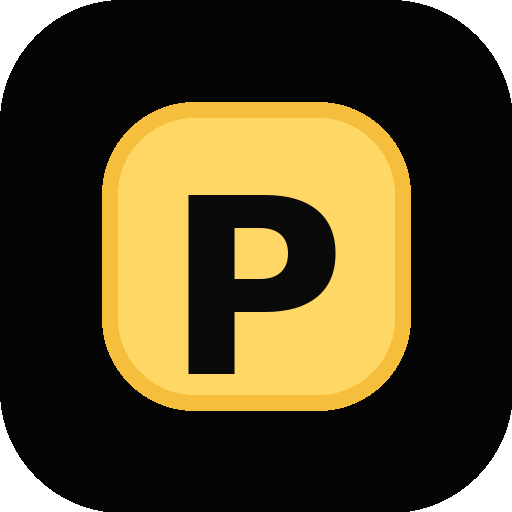
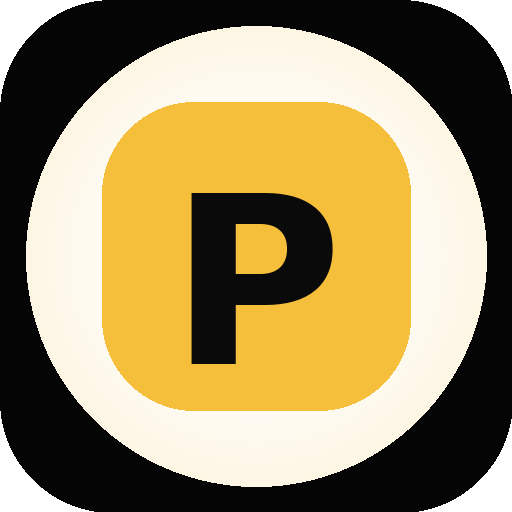
Add files via upload

diff --git a/index.html b/index.html
@@ -9,150 +9,163 @@
 <meta name="apple-mobile-web-app-title" content="Prado Sports">
 <link rel="manifest" href="manifest.json">
 <link rel="apple-touch-icon" href="icon-192.png">
-<title>Prado Sports V18</title>
+<title>Prado Sports V20</title>
 <style>
 @import url('https://fonts.googleapis.com/css2?family=Inter:wght@600;700;800;900&display=swap');
-:root{--bg:#000;--gold:#f4bd3b;--gold2:#ffd56a;--card:#151922;--card2:#202633;--line:rgba(255,255,255,.08);--muted:#aeb3bd;--red:#ff3558;--green:#49e583}
+:root{--bg:#000;--card:#12161d;--card2:#1b202b;--gold:#f4bd3b;--gold2:#ffd86f;--muted:#9ca3af;--line:rgba(255,255,255,.09);--red:#ff3158;--green:#52e78a}
 *{box-sizing:border-box;-webkit-tap-highlight-color:transparent}
 html,body{margin:0;background:#000;color:#fff;font-family:Inter,Arial,sans-serif;overflow-x:hidden}
-.app{max-width:520px;margin:0 auto;background:#000;min-height:100dvh}
 button,input{font-family:inherit}
-.page{display:none;animation:fade .22s ease}.page.active{display:block}@keyframes fade{from{opacity:.4;transform:translateY(4px)}to{opacity:1;transform:none}}
-
-/* Splash */
-.splash{position:fixed;inset:0;z-index:99999;background:radial-gradient(circle at 50% 35%,rgba(244,189,59,.22),transparent 28%),#000;display:flex;align-items:center;justify-content:center;animation:splashOut .45s ease forwards;animation-delay:1.9s}
-.splashBox{text-align:center}.sLogo{width:116px;height:116px;border-radius:32px;margin:auto;display:grid;place-items:center;background:linear-gradient(145deg,#ffe37c,#d69212);color:#111;font-size:68px;font-weight:950;box-shadow:0 0 55px rgba(244,189,59,.35)}
-.splash h1{font-size:38px;line-height:.95;letter-spacing:-1.4px;margin:26px 0 12px;font-weight:950}.splash h1 span{color:var(--gold)}
-.splash p{font-size:14px;color:#ddd;font-weight:800}.load{width:130px;height:5px;border-radius:99px;background:#202020;margin:30px auto;overflow:hidden}.load:after{content:"";display:block;width:60%;height:100%;background:linear-gradient(90deg,#ff3358,#ffd15a,#42e580);animation:load 1.1s infinite}
-@keyframes load{from{transform:translateX(-110%)}to{transform:translateX(200%)}}@keyframes splashOut{to{opacity:0;visibility:hidden;pointer-events:none}}
-
-/* Setup */
-.setup{min-height:100dvh;background:#000;padding:calc(18px + env(safe-area-inset-top)) 22px calc(116px + env(safe-area-inset-bottom))}
-.setup h1{font-size:32px;line-height:1.04;margin:0 0 8px;font-weight:950;letter-spacing:-1.1px}
-.setup h1 span{color:var(--gold)}.setup p{margin:0 0 20px;color:#b8bbc3;font-weight:800;font-size:16px;line-height:1.35}
-.setup .search{height:50px;border-radius:13px;background:#141414;border:1px solid rgba(255,255,255,.10);display:flex;align-items:center;gap:10px;padding:0 14px;color:#aaa;font-size:15px;font-weight:800;margin-bottom:24px}
-.label{font-weight:950;margin:0 0 10px;font-size:15px;color:#fff}
-.pickList{border-radius:16px;overflow:hidden;background:rgba(255,255,255,.045);border:1px solid rgba(255,255,255,.08)}
-.pick{height:58px;display:grid;grid-template-columns:48px 1fr 34px;align-items:center;gap:10px;padding:0 12px;border-bottom:1px solid rgba(255,255,255,.07)}
-.pick:last-child{border-bottom:0}.pick img{width:34px;height:34px;object-fit:contain}.pick b{font-size:16px;font-weight:850}.check{width:26px;height:26px;border-radius:50%;border:3px solid #303030;display:grid;place-items:center;color:#111;font-weight:950}.pick.selected .check{background:var(--gold);border-color:var(--gold)}
-.setupActions{position:fixed;bottom:0;left:0;right:0;z-index:50;background:#000;padding:14px 22px calc(18px + env(safe-area-inset-bottom));display:grid;gap:10px}.setupActions button{height:52px;border:0;border-radius:14px;font-size:17px;font-weight:950}.primary{background:linear-gradient(90deg,#ffd96c,#e2a51b);color:#111}.skip{background:transparent;color:var(--gold)}
-
-/* App */
-.screen{padding:0 16px calc(90px + env(safe-area-inset-bottom))}
-.top{position:sticky;top:0;z-index:40;background:#000;padding:calc(8px + env(safe-area-inset-top)) 0 10px;border-bottom:1px solid rgba(255,255,255,.06)}
-.brandRow{display:flex;align-items:center;justify-content:space-between}.brand{font-size:18px;font-weight:950;letter-spacing:-.35px}.brand span{color:var(--gold)}
-.searchBtn{border:0;background:transparent;color:var(--gold);font-size:25px}
-.searchPanel{display:none;margin-top:10px;background:#101010;border:1px solid rgba(255,255,255,.09);border-radius:14px;padding:10px}.searchPanel.active{display:block}
-.searchPanel input{width:100%;height:42px;border:0;border-radius:10px;background:#1c1c1c;color:#fff;padding:0 12px;font-weight:800}
-.searchResults{margin-top:8px;display:grid;gap:7px}.result{padding:9px 10px;background:#171717;border-radius:10px;font-size:13px;font-weight:800;color:#ddd}
-
-.dates{display:grid;grid-template-columns:repeat(7,1fr);gap:0;margin:12px -16px 10px;padding:0 12px;border-bottom:1px solid rgba(255,255,255,.08);background:#000;overflow:hidden}
-.date{height:56px;text-align:center;color:#8b8f96;font-weight:900;font-size:12px;position:relative;padding-top:8px}.date b{display:block;font-size:16px;margin-top:4px}.date.active{color:var(--gold)}.date.active:after{content:"";position:absolute;left:20%;right:20%;bottom:0;height:4px;border-radius:4px;background:var(--gold)}
-
-.heroMini{border-radius:21px;padding:15px;margin:12px 0;background:linear-gradient(120deg,rgba(0,0,0,.82),rgba(0,0,0,.32)),url('https://images.unsplash.com/photo-1459865264687-595d652de67e?auto=format&fit=crop&w=1200&q=78') center/cover;border:1px solid rgba(244,189,59,.12)}
-.heroMini h2{font-size:22px;line-height:1.08;margin:0 0 7px;font-weight:950;letter-spacing:-.6px}.heroMini h2 span{color:var(--gold)}.heroMini p{margin:0;color:#eee;font-size:12px;font-weight:750;line-height:1.35}.heroBtns{display:grid;grid-template-columns:1fr 1fr;gap:8px;margin-top:12px}.heroBtns button{height:41px;border-radius:13px;border:0;font-weight:950}.heroBtns .live{background:var(--gold);color:#111}.heroBtns .ia{background:rgba(255,255,255,.09);color:#fff;border:1px solid rgba(255,255,255,.13)}
-
-.title{display:flex;align-items:center;justify-content:space-between;margin:17px 0 9px}.title h2{margin:0;font-size:22px;letter-spacing:-.6px}.title small{color:var(--gold);font-weight:950}
-.match{background:linear-gradient(145deg,#151922,#202633);border:1px solid var(--line);border-radius:20px;padding:13px;margin-bottom:10px}
-.mt{display:flex;justify-content:space-between;font-size:12px;font-weight:900;color:#b5b8c0}.liveText{color:var(--green)}
-.teams{display:grid;grid-template-columns:1fr auto 1fr;align-items:center;text-align:center;gap:7px;margin:12px 0}.crest{width:46px;height:46px;object-fit:contain;background:transparent!important;border:0!important;box-shadow:none!important;filter:none!important}.name{font-size:13px;font-weight:950;margin-top:5px}.score{font-size:27px;font-weight:950}
-.metrics{display:grid;grid-template-columns:repeat(3,1fr);gap:7px}.metric{background:#070707;border-radius:13px;padding:8px 4px;text-align:center}.metric small{display:block;color:#aeb3bd;font-size:9px;font-weight:800}.metric b{color:var(--gold);font-size:16px}
-.aiBar{height:10px;border-radius:99px;background:#070707;overflow:hidden;margin:10px 0}.aiBar div{height:100%;background:linear-gradient(90deg,#ff385c,#ffe061,#45df7d)}
-.aiLine{display:flex;justify-content:space-between;border-top:1px solid rgba(255,255,255,.08);padding:10px 0 0;font-weight:850}.aiLine b{color:var(--gold)}
-
-.moreGrid,.compGrid{display:grid;grid-template-columns:1fr 1fr;gap:10px}.tile{background:linear-gradient(145deg,#151922,#202633);border:1px solid var(--line);border-radius:19px;padding:15px;min-height:104px}.tile span{font-size:25px}.tile b{display:block;margin-top:12px;font-size:17px}.tile small{color:#b6bac2;font-weight:800}
-
-.newsItem{background:linear-gradient(145deg,#151922,#202633);border:1px solid var(--line);border-radius:16px;padding:13px;margin-bottom:9px}.newsItem b{font-size:14px}.newsItem small{display:block;margin-top:5px;color:#aaa;font-weight:750}
-
-.bottom{position:fixed;bottom:0;left:0;right:0;z-index:44;background:linear-gradient(180deg,rgba(0,0,0,.72),#050505 35%);border-top:1px solid rgba(255,255,255,.08);padding:8px 10px calc(8px + env(safe-area-inset-bottom))}
-.nav{max-width:520px;margin:auto;display:grid;grid-template-columns:repeat(5,1fr);gap:6px}.nav button{border:0;background:transparent;color:#9b9b9b;border-radius:17px;padding:8px 2px;font-weight:900;font-size:10px}.nav span{display:block;font-size:21px;margin-bottom:3px}.nav .active{background:rgba(255,255,255,.12);color:var(--gold)}
+.app{max-width:520px;margin:0 auto;min-height:100dvh;background:#000}
+.page{display:none;animation:fade .2s ease}.page.active{display:block}@keyframes fade{from{opacity:.45;transform:translateY(4px)}to{opacity:1;transform:none}}
+.screen{padding:0 14px calc(92px + env(safe-area-inset-bottom))}
+.splash{position:fixed;inset:0;z-index:9999;display:flex;align-items:center;justify-content:center;background:radial-gradient(circle at 50% 34%,rgba(244,189,59,.24),transparent 28%),#000;animation:hide .5s ease forwards;animation-delay:1.8s}
+.splashBox{text-align:center}.sLogo{width:112px;height:112px;border-radius:30px;display:grid;place-items:center;background:linear-gradient(145deg,#ffe27a,#d89512);color:#111;font-size:66px;font-weight:950;margin:0 auto 24px;box-shadow:0 0 54px rgba(244,189,59,.42)}
+.splash h1{font-size:39px;line-height:.92;margin:0;font-weight:950;letter-spacing:-1.5px}.splash h1 span{color:var(--gold)}.splash p{font-size:15px;color:#eee;font-weight:800}.load{width:130px;height:5px;background:#222;border-radius:999px;margin:28px auto 0;overflow:hidden}.load:after{content:"";display:block;width:60%;height:100%;background:linear-gradient(90deg,var(--red),var(--gold),var(--green));animation:l 1.1s infinite}@keyframes l{from{transform:translateX(-120%)}to{transform:translateX(210%)}}@keyframes hide{to{opacity:0;visibility:hidden;pointer-events:none}}
+.header{position:sticky;top:0;z-index:50;padding:calc(8px + env(safe-area-inset-top)) 14px 11px;margin:0 -14px;background:#000;border-bottom:1px solid rgba(255,255,255,.06)}
+.topRow{display:flex;align-items:center;justify-content:space-between}.brand{font-weight:950;font-size:18px;letter-spacing:-.4px}.brand b{color:var(--gold)}.searchIcon{width:38px;height:38px;border:0;border-radius:15px;background:#101318;color:var(--gold);font-size:20px}
+.searchBar{height:42px;border-radius:15px;background:#101318;border:1px solid var(--line);margin-top:10px;display:flex;align-items:center;gap:8px;padding:0 12px;color:#b8bec8;font-size:13px;font-weight:800}
+.dates{display:grid;grid-template-columns:repeat(7,1fr);gap:4px;margin:13px -2px 10px}.date{border:0;background:transparent;color:#9ca3af;border-radius:12px;padding:6px 0 8px;text-align:center;font-weight:900}.date small{display:block;font-size:10px}.date b{display:block;font-size:13px;margin-top:3px}.date.active{color:#fff;background:#11161d}.date.active b,.date.active small{color:var(--gold)}.date.active:after{content:"";display:block;height:3px;width:22px;background:var(--gold);border-radius:999px;margin:6px auto 0}
+.section{display:flex;align-items:center;justify-content:space-between;margin:17px 0 9px}.section h2{margin:0;font-size:20px;letter-spacing:-.7px}.section small{color:var(--gold);font-weight:950}
+.match{background:linear-gradient(145deg,#151a23,#202633);border:1px solid var(--line);border-radius:20px;padding:12px;margin-bottom:10px}.mTop{display:flex;justify-content:space-between;color:#aeb3bd;font-size:11px;font-weight:900}.live{color:var(--green)}.teams{display:grid;grid-template-columns:1fr auto 1fr;align-items:center;text-align:center;gap:8px;margin:12px 0}.crest{width:46px;height:46px;object-fit:contain;background:transparent!important;border:0!important;box-shadow:none!important;filter:drop-shadow(0 3px 5px rgba(0,0,0,.25))}.team{font-size:13px;font-weight:950;margin-top:3px}.score{font-size:25px;font-weight:950}.metrics{display:grid;grid-template-columns:repeat(3,1fr);gap:7px}.metric{background:#060606;border-radius:13px;padding:8px 4px;text-align:center}.metric small{display:block;color:#aeb3bd;font-size:9px;font-weight:800}.metric b{display:block;color:var(--gold);font-size:16px;margin-top:2px}
+.listGame{display:flex;align-items:center;gap:10px;padding:11px 0;border-bottom:1px solid rgba(255,255,255,.07)}.listGame .crest{width:30px;height:30px}.listGame b{font-size:14px}.listGame small{color:var(--muted);font-weight:800}
+.ai{background:linear-gradient(145deg,#151a23,#202633);border:1px solid var(--line);border-radius:20px;padding:13px;margin-bottom:10px}.bar{height:9px;background:#070707;border-radius:999px;overflow:hidden;margin:11px 0}.bar span{display:block;height:100%;background:linear-gradient(90deg,#ff3158,#ffe066,#52e78a)}.aiLine{display:flex;justify-content:space-between;border-top:1px solid rgba(255,255,255,.07);padding-top:9px;margin-top:9px;font-weight:900}.aiLine b{color:var(--gold)}
+.grid{display:grid;grid-template-columns:1fr 1fr;gap:10px}.box{background:linear-gradient(145deg,#151a23,#202633);border:1px solid var(--line);border-radius:18px;padding:14px;min-height:92px}.box span{font-size:23px}.box b{display:block;margin-top:10px}.box small{color:var(--muted);font-weight:800}
+.more{min-height:110px}.settings{background:linear-gradient(145deg,#151a23,#202633);border:1px solid var(--line);border-radius:20px;padding:14px;margin-bottom:12px}.line{display:flex;justify-content:space-between;align-items:center;border-top:1px solid rgba(255,255,255,.07);padding:11px 0;font-weight:900}.line:first-of-type{border-top:0}.toggle{width:44px;height:25px;border-radius:999px;background:linear-gradient(90deg,var(--gold2),var(--gold));position:relative}.toggle:after{content:"";position:absolute;width:19px;height:19px;background:#111;border-radius:50%;right:3px;top:3px}.req{width:100%;height:45px;border:0;border-radius:15px;background:linear-gradient(90deg,var(--gold2),var(--gold));font-weight:950;color:#111}
+.setup{min-height:100dvh;background:#000;padding:calc(22px + env(safe-area-inset-top)) 22px calc(96px + env(safe-area-inset-bottom))}.setup h1{font-size:30px;margin:0 0 8px;letter-spacing:-.9px}.setup h1 span{color:var(--gold)}.setup p{margin:0 0 18px;color:#b9bec8;font-weight:800;line-height:1.35}.setupSearch{height:50px;border-radius:15px;border:1px solid rgba(255,255,255,.12);background:#151515;display:flex;align-items:center;gap:10px;padding:0 13px;color:#b7b7b7;font-weight:800;margin-bottom:19px}.setupLabel{font-size:15px;font-weight:950;margin:0 0 10px}.pickBox{background:linear-gradient(145deg,#101412,#171a18);border:1px solid rgba(255,255,255,.09);border-radius:18px;overflow:hidden}.pick{height:56px;display:grid;grid-template-columns:42px 1fr 30px;align-items:center;gap:10px;padding:0 13px;border-bottom:1px solid rgba(255,255,255,.07)}.pick:last-child{border-bottom:0}.pick img{width:32px;height:32px;object-fit:contain;background:transparent!important;border:0!important}.pick b{font-size:16px}.check{width:24px;height:24px;border-radius:50%;border:2px solid #333;display:grid;place-items:center;color:#111;font-weight:950}.pick.selected .check{background:var(--gold);border-color:var(--gold)}.setupActions{position:fixed;left:0;right:0;bottom:0;padding:14px 22px calc(16px + env(safe-area-inset-bottom));background:linear-gradient(180deg,rgba(0,0,0,.1),#000 18%);z-index:80}.setupActions button{width:100%;height:50px;border:0;border-radius:14px;font-size:16px;font-weight:950}.primary{background:linear-gradient(90deg,var(--gold2),var(--gold));color:#111}.skip{margin-top:10px;background:transparent!important;color:var(--gold)!important}
+.bottom{position:fixed;left:0;right:0;bottom:0;z-index:60;background:linear-gradient(180deg,rgba(0,0,0,.75),#030303 35%);border-top:1px solid rgba(255,255,255,.08);padding:8px 8px calc(8px + env(safe-area-inset-bottom))}.nav{max-width:520px;margin:0 auto;display:grid;grid-template-columns:repeat(5,1fr);gap:5px}.nav button{border:0;background:transparent;color:#9d9d9d;border-radius:17px;padding:8px 2px;font-size:10px;font-weight:950}.nav span{display:block;font-size:22px;margin-bottom:2px}.nav .on{background:rgba(255,255,255,.11);color:var(--gold)}
 </style>
 </head>
 <body>
 <div class="splash"><div class="splashBox"><div class="sLogo">P</div><h1>PRADO<br><span>SPORTS</span></h1><p>Futebol inteligente em tempo real.</p><div class="load"></div></div></div>
 
 <div id="setup" class="setup">
-  <h1 id="setTitle">Times <span>favoritos</span></h1>
-  <p id="setSub">Escolha seus times para personalizar sua experiência</p>
-  <div class="search">⌕ <span id="setSearch">Buscar time</span></div>
-  <div class="label">Populares</div>
-  <div id="pickList" class="pickList"></div>
-  <div class="setupActions"><button class="primary" onclick="nextSetup()">Próximo</button><button class="skip" onclick="enterApp()">Pular</button></div>
+  <h1 id="stitle">Times <span>favoritos</span></h1>
+  <p id="ssub">Escolha seus times para personalizar sua experiência</p>
+  <div class="setupSearch">🔍 <span id="splaceholder">Buscar time</span></div>
+  <div class="setupLabel" id="slabel">Populares</div>
+  <div class="pickBox" id="pickList"></div>
+  <div class="setupActions"><button class="primary" onclick="nextSetup()" id="nextBtn">Próximo</button><button class="skip" onclick="enterApp()">Pular</button></div>
 </div>
 
 <div id="app" class="app" style="display:none">
-  <div class="screen">
-    <div class="top">
-      <div class="brandRow"><div class="brand">PRADO <span>SPORTS</span></div><button class="searchBtn" onclick="toggleSearch()">⌕</button></div>
-      <div id="searchPanel" class="searchPanel"><input id="q" placeholder="Buscar times, ligas e jogos..." oninput="doSearch()"><div id="searchResults" class="searchResults"></div></div>
-    </div>
-
-    <section id="home" class="page active">
-      <div class="dates" id="dates"></div>
-      <div class="heroMini"><h2>Prado Sports <span>placares e IA</span></h2><p>Ao vivo, escalações, competições e Escanteios IA.</p><div class="heroBtns"><button class="live" onclick="go('live')">🔴 Ao vivo</button><button class="ia" onclick="go('ai')">🚩 Escanteios IA</button></div></div>
-      <div class="title"><h2>⚽ Jogos de hoje</h2><small>Principal</small></div>
-      <div id="todayGames"></div>
-      <div class="title"><h2>⭐ Favoritos</h2><small>Seu app</small></div>
-      <div class="newsItem"><b>Vasco x Flamengo</b><small>Hoje • 21:30 • Brasileirão Série A</small></div>
-      <div class="title"><h2>🚩 Escanteios IA</h2><small>Top</small></div>
-      <div id="homeAI"></div>
-    </section>
-
-    <section id="live" class="page"><div class="title"><h2>🔴 Ao Vivo</h2><small>Tempo real</small></div><div id="liveList"></div></section>
-    <section id="fav" class="page"><div class="title"><h2>⭐ Favoritos</h2><small>Personalizado</small></div><div class="newsItem"><b>Vasco x Flamengo</b><small>Hoje • 21:30</small></div><div class="newsItem"><b>Brasil x Argentina</b><small>Próximo favorito</small></div></section>
-    <section id="comp" class="page"><div class="title"><h2>🏆 Competições</h2><small>Mundo</small></div><div id="compGrid" class="compGrid"></div></section>
-    <section id="ai" class="page"><div class="title"><h2>🚩 Escanteios IA</h2><small>Top do dia</small></div><div id="aiList"></div></section>
-    <section id="more" class="page"><div class="title"><h2>☰ Mais</h2><small>Organizado</small></div><div class="moreGrid"><div class="tile" onclick="go('ai')"><span>🚩</span><b>Escanteios IA</b><small>Top jogos</small></div><div class="tile"><span>🏆</span><b>Tabelas</b><small>Classificações</small></div><div class="tile"><span>🎯</span><b>Artilheiros</b><small>Gols</small></div><div class="tile"><span>⚙️</span><b>Configurações</b><small>Alertas</small></div></div></section>
-  </div>
-
-  <div class="bottom"><div class="nav"><button class="active" onclick="go('home',this)"><span>🏠</span>Início</button><button onclick="go('live',this)"><span>🔴</span>Ao vivo</button><button onclick="go('fav',this)"><span>⭐</span>Favoritos</button><button onclick="go('comp',this)"><span>🏆</span>Competições</button><button onclick="go('more',this)"><span>☰</span>Mais</button></div></div>
+<div class="screen">
+<header class="header"><div class="topRow"><div class="brand">PRADO <b>SPORTS</b></div><button class="searchIcon" onclick="openSearch()">⌕</button></div><div class="searchBar" id="searchBar">🔍 Buscar jogos, times e ligas</div></header>
+<section id="home" class="page active">
+  <div class="dates" id="dates"></div>
+  <div class="section"><h2>⚽ Jogos de hoje</h2><small>Principal</small></div>
+  <div id="todayList"></div>
+  <div class="section"><h2>🚩 Escanteios IA</h2><small>Top do dia</small></div>
+  <div id="aiList"></div>
+  <div class="section"><h2>⭐ Favoritos</h2><small>Personalizado</small></div>
+  <div class="listGame"><img class="crest" src="https://media.api-sports.io/football/teams/133.png"><div><b>Vasco x Flamengo</b><br><small>Hoje • 21:30</small></div></div>
+</section>
+<section id="live" class="page"><div class="section"><h2>🔴 Ao vivo</h2><small>Tempo real</small></div><div id="liveList"></div></section>
+<section id="fav" class="page"><div class="section"><h2>⭐ Favoritos</h2><small>Seu app</small></div><div class="listGame"><img class="crest" src="https://media.api-sports.io/football/teams/133.png"><div><b>Vasco</b><br><small>Próximo jogo hoje</small></div></div><div class="listGame"><img class="crest" src="https://media.api-sports.io/football/teams/127.png"><div><b>Flamengo</b><br><small>Ao vivo no Brasileirão</small></div></div></section>
+<section id="comp" class="page"><div class="section"><h2>🏆 Competições</h2><small>Mundo</small></div><div class="grid" id="compGrid"></div></section>
+<section id="more" class="page"><div class="section"><h2>☰ Mais</h2><small>Organizado</small></div><div class="grid"><div class="box more" onclick="show('home')"><span>🚩</span><b>Escanteios IA</b><small>Top jogos</small></div><div class="box more"><span>🏆</span><b>Tabelas</b><small>Classificações</small></div><div class="box more"><span>🎯</span><b>Artilheiros</b><small>Gols</small></div><div class="box more" onclick="show('settings')"><span>⚙️</span><b>Configurações</b><small>Alertas</small></div></div></section>
+<section id="settings" class="page"><div class="section"><h2>⚙️ Configurações</h2><small>Alertas</small></div><div class="settings"><button class="req" onclick="notify()">Permitir notificações</button><p id="nstatus" style="color:var(--muted);font-weight:800">Status: aguardando</p></div><div class="settings"><div class="line">⚽ Gol <div class="toggle"></div></div><div class="line">🚩 Escanteio <div class="toggle"></div></div><div class="line">🟨 Cartão <div class="toggle"></div></div><div class="line">📋 Escalação <div class="toggle"></div></div></div></section>
+</div>
+<nav class="bottom"><div class="nav"><button class="on" onclick="nav('home',this)"><span>🏠</span>Hoje</button><button onclick="nav('live',this)"><span>🔴</span>Ao vivo</button><button onclick="nav('fav',this)"><span>⭐</span>Favoritos</button><button onclick="nav('comp',this)"><span>🏆</span>Ligas</button><button onclick="nav('more',this)"><span>☰</span>Mais</button></div></nav>
 </div>
 
 <script>
-const logos={
- vasco:'https://media.api-sports.io/football/teams/133.png', fla:'https://media.api-sports.io/football/teams/127.png',
- cor:'https://media.api-sports.io/football/teams/131.png', pal:'https://media.api-sports.io/football/teams/121.png',
- san:'https://media.api-sports.io/football/teams/128.png', sp:'https://media.api-sports.io/football/teams/126.png',
- inter:'https://media.api-sports.io/football/teams/119.png', flu:'https://media.api-sports.io/football/teams/124.png',
- boca:'https://media.api-sports.io/football/teams/451.png'
-};
-const teams=[['Vasco',logos.vasco],['Flamengo',logos.fla],['Corinthians',logos.cor],['Palmeiras',logos.pal],['Santos',logos.san],['São Paulo',logos.sp],['Internacional',logos.inter]];
-const comps=[['Copa do Mundo','🌎'],['Libertadores','🏆'],['Sul-Americana','🏆'],['Brasileirão Série A','🏆'],['Premier League','🏴'],['La Liga','🇪🇸'],['Champions League','⭐'],['Serie A','🇮🇹']];
-const matches=[
- {l:'Brasileirão Série A',h:['Vasco',logos.vasco],a:['Flamengo',logos.fla],s:'2 - 1',t:'2º Tempo • 67:15',c:8,p:84},
- {l:'Brasileirão Série A',h:['Palmeiras',logos.pal],a:['São Paulo',logos.sp],s:'2 - 1',t:'2º Tempo • 67\\'',c:10,p:88},
- {l:'Libertadores',h:['Fluminense',logos.flu],a:['Boca Juniors',logos.boca],s:'1 - 0',t:'2º Tempo • 52\\'',c:6,p:73}
+var setupStep = 0;
+var setupTeams = [
+  {name:"Vasco", img:"https://media.api-sports.io/football/teams/133.png"},
+  {name:"Flamengo", img:"https://media.api-sports.io/football/teams/127.png"},
+  {name:"Corinthians", img:"https://media.api-sports.io/football/teams/131.png"},
+  {name:"Palmeiras", img:"https://media.api-sports.io/football/teams/121.png"},
+  {name:"Santos", img:"https://media.api-sports.io/football/teams/128.png"},
+  {name:"São Paulo", img:"https://media.api-sports.io/football/teams/126.png"},
+  {name:"Internacional", img:"https://media.api-sports.io/football/teams/119.png"}
 ];
-let step=0;
+var setupComps = [
+  {name:"Copa do Mundo", icon:"🌎"},
+  {name:"Libertadores", icon:"🏆"},
+  {name:"Sul-Americana", icon:"🏆"},
+  {name:"Brasileirão Série A", icon:"🇧🇷"},
+  {name:"Premier League", icon:"🦁"},
+  {name:"La Liga", icon:"🇪🇸"},
+  {name:"Champions League", icon:"⭐"},
+  {name:"Serie A", icon:"🇮🇹"}
+];
+var games = [
+  {l:"Brasileirão Série A", h:["Vasco","https://media.api-sports.io/football/teams/133.png"], a:["Flamengo","https://media.api-sports.io/football/teams/127.png"], s:"2 - 1", t:"2º Tempo • 67:15", c:8, p:84},
+  {l:"Brasileirão Série A", h:["Palmeiras","https://media.api-sports.io/football/teams/121.png"], a:["São Paulo","https://media.api-sports.io/football/teams/126.png"], s:"2 - 1", t:"2º Tempo • 67", c:10, p:88},
+  {l:"Libertadores", h:["Fluminense","https://media.api-sports.io/football/teams/124.png"], a:["Boca Juniors","https://media.api-sports.io/football/teams/451.png"], s:"1 - 0", t:"2º Tempo • 52", c:6, p:73}
+];
+
 function renderSetup(){
- const data=step?comps.map(x=>[x[0],null,x[1]]):teams.map(x=>[x[0],x[1],null]);
- setTitle.innerHTML=step?'Competições <span>favoritas</span>':'Times <span>favoritos</span>';
- setSub.textContent=step?'Escolha as competições que você deseja acompanhar':'Escolha seus times para personalizar sua experiência';
- setSearch.textContent=step?'Buscar competição':'Buscar time';
- pickList.innerHTML=data.map((x,i)=>`<div class="pick ${i<3?'selected':''}">${x[1]?`<img src="${x[1]}">`:`<div style="font-size:25px">${x[2]}</div>`}<b>${x[0]}</b><div class="check">${i<3?'✓':''}</div></div>`).join('');
+  var data = setupStep === 0 ? setupTeams : setupComps;
+  document.getElementById("stitle").innerHTML = setupStep === 0 ? 'Times <span>favoritos</span>' : 'Competições <span>favoritas</span>';
+  document.getElementById("ssub").textContent = setupStep === 0 ? "Escolha seus times para personalizar sua experiência" : "Escolha as competições que você deseja acompanhar";
+  document.getElementById("splaceholder").textContent = setupStep === 0 ? "Buscar time" : "Buscar competição";
+  document.getElementById("slabel").textContent = setupStep === 0 ? "Populares" : "Principais";
+  document.getElementById("nextBtn").textContent = setupStep === 0 ? "Próximo" : "Entrar no app";
+  var html = "";
+  for(var i=0;i<data.length;i++){
+    if(setupStep === 0){
+      html += '<div class="pick '+(i<3?'selected':'')+'"><img src="'+data[i].img+'"><b>'+data[i].name+'</b><div class="check">'+(i<3?'✓':'')+'</div></div>';
+    } else {
+      html += '<div class="pick '+(i<5?'selected':'')+'"><div style="font-size:24px">'+data[i].icon+'</div><b>'+data[i].name+'</b><div class="check">'+(i<5?'✓':'')+'</div></div>';
+    }
+  }
+  document.getElementById("pickList").innerHTML = html;
 }
-function nextSetup(){ if(step===0){step=1;renderSetup()}else enterApp() }
-function enterApp(){setup.style.display='none';app.style.display='block'}
-function dateBar(){
- const dias=['SA','DO','SE','HOJE','QU','QT','SX'], nums=['06','07','08','09','10','11','12'];
- dates.innerHTML=dias.map((d,i)=>`<div class="date ${i==3?'active':''}">${d}<b>${nums[i]}.06.</b></div>`).join('');
+function nextSetup(){
+  if(setupStep === 0){
+    setupStep = 1;
+    renderSetup();
+    window.scrollTo(0,0);
+  } else {
+    enterApp();
+  }
 }
-function crest(t){return `<img class="crest" src="${t[1]}"><div class="name">${t[0]}</div>`}
-function match(m){
- return `<div class="match"><div class="mt"><span>${m.l}</span><span class="liveText">● ${m.t}</span></div><div class="teams"><div>${crest(m.h)}</div><div class="score">${m.s}</div><div>${crest(m.a)}</div></div><div class="metrics"><div class="metric"><small>Escanteios</small><b>${m.c}</b></div><div class="metric"><small>Pressão IA</small><b>${m.p}%</b></div><div class="metric"><small>Status</small><b>Ao vivo</b></div></div></div>`
+function enterApp(){
+  document.getElementById("setup").style.display = "none";
+  document.getElementById("app").style.display = "block";
+  window.scrollTo(0,0);
 }
-function ai(m){
- return `<div class="match"><div class="mt"><span>${m.h[0]} x ${m.a[0]}</span><span>${m.l}</span></div><div class="aiBar"><div style="width:${m.p}%"></div></div><div class="aiLine"><span>Over 8.5 escanteios</span><b>${m.p>80?'Forte':'Moderado'}</b></div><div class="aiLine"><span>Média projetada</span><b>${(m.c+2.4).toFixed(1)}</b></div></div>`
+function match(g){
+  return '<div class="match"><div class="mTop"><span>'+g.l+'</span><span class="live">● '+g.t+'</span></div><div class="teams"><div><img class="crest" src="'+g.h[1]+'"><div class="team">'+g.h[0]+'</div></div><div class="score">'+g.s+'</div><div><img class="crest" src="'+g.a[1]+'"><div class="team">'+g.a[0]+'</div></div></div><div class="metrics"><div class="metric"><small>Escanteios</small><b>'+g.c+'</b></div><div class="metric"><small>Pressão IA</small><b>'+g.p+'%</b></div><div class="metric"><small>Status</small><b>Ao vivo</b></div></div></div>';
 }
-function render(){
- dateBar(); todayGames.innerHTML=matches.map(match).join(''); liveList.innerHTML=matches.map(match).join(''); aiList.innerHTML=matches.map(ai).join(''); homeAI.innerHTML=ai(matches[1]);
- compGrid.innerHTML=comps.map(x=>`<div class="tile"><span>${x[1]}</span><b>${x[0]}</b><small>Jogos hoje</small></div>`).join('');
+function ai(g){
+  return '<div class="ai"><div class="mTop"><span>'+g.h[0]+' x '+g.a[0]+'</span><span>'+g.l+'</span></div><div class="bar"><span style="width:'+g.p+'%"></span></div><div class="aiLine"><span>Over 8.5 escanteios</span><b>'+(g.p>80?'Forte':'Moderado')+'</b></div><div class="aiLine"><span>Média projetada</span><b>'+(g.c+2.4).toFixed(1)+'</b></div></div>';
 }
-function go(id,btn){document.querySelectorAll('.page').forEach(p=>p.classList.remove('active'));document.getElementById(id).classList.add('active');document.querySelectorAll('.nav button').forEach(b=>b.classList.remove('active')); if(btn)btn.classList.add('active')}
-function toggleSearch(){searchPanel.classList.toggle('active');q?.focus()}
-function doSearch(){let v=q.value.toLowerCase();let all=['Vasco','Flamengo','Palmeiras','São Paulo','Brasileirão Série A','Libertadores','Escanteios IA'];searchResults.innerHTML=all.filter(x=>x.toLowerCase().includes(v)).map(x=>`<div class="result">⌕ ${x}</div>`).join('')}
-renderSetup();render();
-if('serviceWorker' in navigator){navigator.serviceWorker.register('service-worker.js?v=18')}
+function renderApp(){
+  document.getElementById("dates").innerHTML = ["SA|06","DO|07","SE|08","HOJE|09","QU|10","QT|11","SX|12"].map(function(d,i){
+    var p=d.split("|"); return '<button class="date '+(i===3?'active':'')+'"><small>'+p[0]+'</small><b>'+p[1]+'</b></button>';
+  }).join("");
+  document.getElementById("todayList").innerHTML = games.map(match).join("");
+  document.getElementById("liveList").innerHTML = games.map(match).join("");
+  document.getElementById("aiList").innerHTML = games.slice(0,2).map(ai).join("");
+  document.getElementById("compGrid").innerHTML = setupComps.map(function(c){
+    return '<div class="box"><span>'+c.icon+'</span><b>'+c.name+'</b><small>Jogos hoje</small></div>';
+  }).join("");
+}
+function show(id){
+  document.querySelectorAll(".page").forEach(function(p){p.classList.remove("active")});
+  document.getElementById(id).classList.add("active");
+}
+function nav(id,b){
+  show(id);
+  document.querySelectorAll(".nav button").forEach(function(x){x.classList.remove("on")});
+  b.classList.add("on");
+}
+function openSearch(){
+  document.getElementById("searchBar").textContent = "🔍 Buscar jogos, times e ligas";
+}
+function notify(){
+  var el=document.getElementById("nstatus");
+  if(!("Notification" in window)){el.textContent="Sem suporte";return;}
+  Notification.requestPermission().then(function(p){
+    el.textContent = p === "granted" ? "Notificações permitidas ✅" : "Permissão não ativada";
+  });
+}
+renderSetup();
+renderApp();
+if("serviceWorker" in navigator){navigator.serviceWorker.register("service-worker.js?v=20");}
 </script>
 </body>
 </html>

diff --git a/service-worker.js b/service-worker.js
@@ -1,1 +1,1 @@
-const CACHE_NAME="prado-sports-v18";self.addEventListener("install",e=>{self.skipWaiting();e.waitUntil(caches.open(CACHE_NAME).then(c=>c.addAll(["./index.html?v=18","./manifest.json","./icon-192.png","./icon-512.png"])))});self.addEventListener("activate",e=>{e.waitUntil(caches.keys().then(keys=>Promise.all(keys.map(k=>k!==CACHE_NAME?caches.delete(k):null))));self.clients.claim()});self.addEventListener("fetch",e=>{e.respondWith(fetch(e.request).catch(()=>caches.match(e.request)))})
+const CACHE_NAME="prado-sports-v20";self.addEventListener("install",e=>{self.skipWaiting();e.waitUntil(caches.open(CACHE_NAME).then(c=>c.addAll(["./index.html?v=20","./manifest.json","./icon-192.png","./icon-512.png"])))});self.addEventListener("activate",e=>{e.waitUntil(caches.keys().then(keys=>Promise.all(keys.map(k=>k!==CACHE_NAME?caches.delete(k):null))));self.clients.claim()});self.addEventListener("fetch",e=>{e.respondWith(fetch(e.request).catch(()=>caches.match(e.request)))})